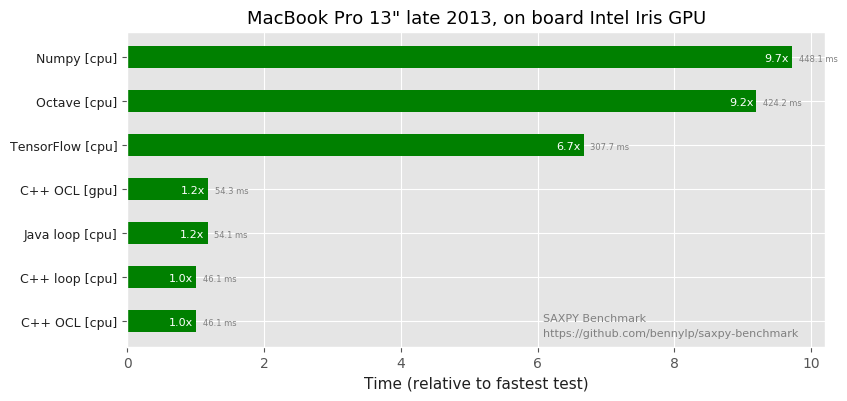
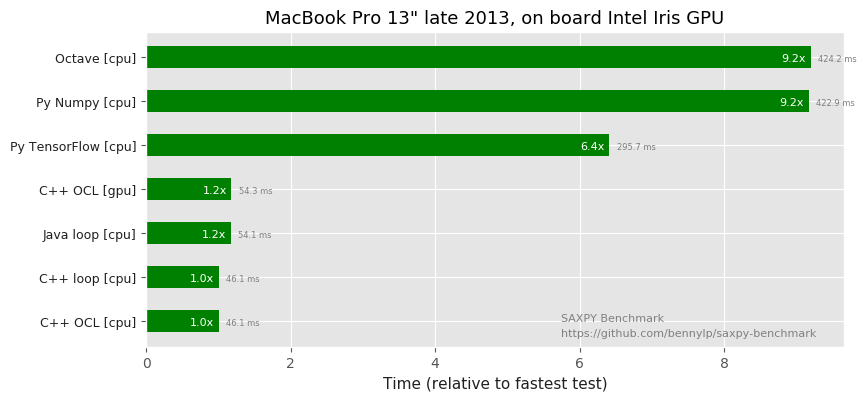
Updated README

diff --git a/results/create_charts.py b/results/create_charts.py
@@ -7,7 +7,7 @@ import matplotlib.pyplot as plt
 import numpy as np
 import pandas as pd
 
-known_columns = set(['Python loop [cpu]', 'Numpy [cpu]',
+known_columns = set(['Python loop [cpu]', 'Py Numpy [cpu]',
                      'C++ loop [cpu]',
                      'C++ CUDA [cpu]',
                      'C++ OCL [cpu]', 'C++ OCL [gpu]',
@@ -133,7 +133,7 @@ if __name__ == "__main__":
     specs = json.loads(open('result_specs.json').read())
     output_md = README_MD
 
-    output_md += "".join(["- %s\n" % nm for nm in list(known_columns)])
+    output_md += "".join(["- %s\n" % nm for nm in sorted(known_columns)])
     output_md += "\n"
 
     for spec in specs:

diff --git a/results/README.md b/results/README.md
@@ -10,19 +10,19 @@ file. Feel free to submit a result:
 When creating a CSV, please standardize the column names to the following, otherwise
 the CSV will be rejected by `create_charts.py`. The names are standardized in case we want to do
 some statistics with them in the future:
-- Java loop [cpu]
-- R [cpu]
-- C++ OCL [cpu]
-- PyOCL [cpu]
-- Python loop [cpu]
 - C++ CUDA [cpu]
-- C++ loop [cpu]
-- PyOCL [gpu]
-- TensorFlow [gpu]
-- Octave [cpu]
-- Numpy [cpu]
-- TensorFlow [cpu]
+- C++ OCL [cpu]
 - C++ OCL [gpu]
+- C++ loop [cpu]
+- Java loop [cpu]
+- Octave [cpu]
+- Py Numpy [cpu]
+- Py TensorFlow [cpu]
+- Py TensorFlow [gpu]
+- PyOCL [cpu]
+- PyOCL [gpu]
+- Python loop [cpu]
+- R [cpu]
 
 
 
@@ -57,12 +57,12 @@ Submitted by Benny Prijono on 2017-11-14
 |--------| --------: | --------: | --------: |
 | Python loop [cpu] | 12494.000 | 198.252 | 390.80x |
 | Octave [cpu] | 314.848 | 15.985 | 9.85x |
-| Numpy [cpu] | 276.667 | 2.503 | 8.65x |
+| Py Numpy [cpu] | 276.667 | 2.503 | 8.65x |
 | PyOCL [gpu] | 222.500 | 3.271 | 6.96x |
 | R [cpu] | 216.237 | 2.749 | 6.76x |
-| TensorFlow [cpu] | 214.564 | 2.450 | 6.71x |
+| Py TensorFlow [cpu] | 214.564 | 2.450 | 6.71x |
 | C++ OCL [cpu] | 110.983 | 2.128 | 3.47x |
-| TensorFlow [gpu] | 78.536 | 0.522 | 2.46x |
+| Py TensorFlow [gpu] | 78.536 | 0.522 | 2.46x |
 | PyOCL [cpu] | 46.000 | 1.265 | 1.44x |
 | C++ loop [cpu] | 40.979 | 0.943 | 1.28x |
 | C++ CUDA [cpu] | 32.218 | 0.019 | 1.01x |
@@ -104,9 +104,9 @@ Submitted by Benny Prijono on 2017-11-14
 | Test   | Mean Time (ms) | StdDev (ms) | Time (rel)
 |--------| --------: | --------: | --------: |
 | Python loop [cpu] | 20491.674 | 2353.082 | 444.43x |
-| Numpy [cpu] | 448.097 | 14.627 | 9.72x |
 | Octave [cpu] | 424.165 | 13.562 | 9.20x |
-| TensorFlow [cpu] | 307.726 | 4.436 | 6.67x |
+| Py Numpy [cpu] | 422.904 | 1.792 | 9.17x |
+| Py TensorFlow [cpu] | 295.680 | 1.823 | 6.41x |
 | C++ OCL [gpu] | 54.344 | 0.318 | 1.18x |
 | Java loop [cpu] | 54.112 | 1.436 | 1.17x |
 | C++ loop [cpu] | 46.142 | 0.119 | 1.00x |

diff --git a/README.md b/README.md
@@ -7,19 +7,23 @@ SAXPY (Single Precision A * X Plus Y) is basically:
 ```
 
 This repository contains several implementations of SAXPY such as:
- - naive C++ loop [[saxpy_cpu.cpp](saxpy_cpu.cpp)]
- - naive Java loop [[SaxpyLoop.java](SaxpyLoop.java)]
- - naive Python loop [[saxpy_loop.py](saxpy_loop.py)]
- - Python Numpy [[saxpy_numpy.py](saxpy_numpy.py)]
- - Octave [[saxpy.m](saxpy.m)]
- - R [[saxpy.R](saxpy.R)]
- - TensorFlow (CPU and GPU) [[saxpy_tf.py](saxpy_tf.py)]
- - C++ CUDA (GPU) [[saxpy_cuda.cu](saxpy_cuda.cu)]
- - OpenCL (CPU and GPU) [[saxpy_ocl1.cpp](saxpy_ocl1.cpp)] 
- - PyOpenCL (CPU and GPU) [[saxpy_pyocl.py](saxpy_pyocl.py)]
- - C++ OpenMP [[saxpy_omp.cpp](saxpy_omp.cpp)]
-
-Unless noted differently, we use the best mean to do the job on each platform,
+- C++:
+    - naive C++ loop [[saxpy_cpu.cpp](saxpy_cpu.cpp)]
+    - C++ CUDA (GPU) [[saxpy_cuda.cu](saxpy_cuda.cu)]
+    - OpenCL (CPU and GPU) [[saxpy_ocl1.cpp](saxpy_ocl1.cpp)]
+    - C++ OpenMP [[saxpy_omp.cpp](saxpy_omp.cpp)]
+- Python:
+    - naive Python loop [[saxpy_loop.py](saxpy_loop.py)]
+    - Python Numpy [[saxpy_numpy.py](saxpy_numpy.py)]
+    - TensorFlow (CPU and GPU) [[saxpy_tf.py](saxpy_tf.py)]
+    - PyOpenCL (CPU and GPU) [[saxpy_pyocl.py](saxpy_pyocl.py)]
+- Java:
+    - naive Java loop [[SaxpyLoop.java](SaxpyLoop.java)]
+- Octave [[saxpy.m](saxpy.m)]
+- R [[saxpy.R](saxpy.R)]
+ 
+ 
+Unless noted differently, we attempt to use the best mean to do the job on each platform,
 e.g. vectorization on Numpy, R, and Octave.
 
 We only measure the time to perform the actual loop and not other things 
